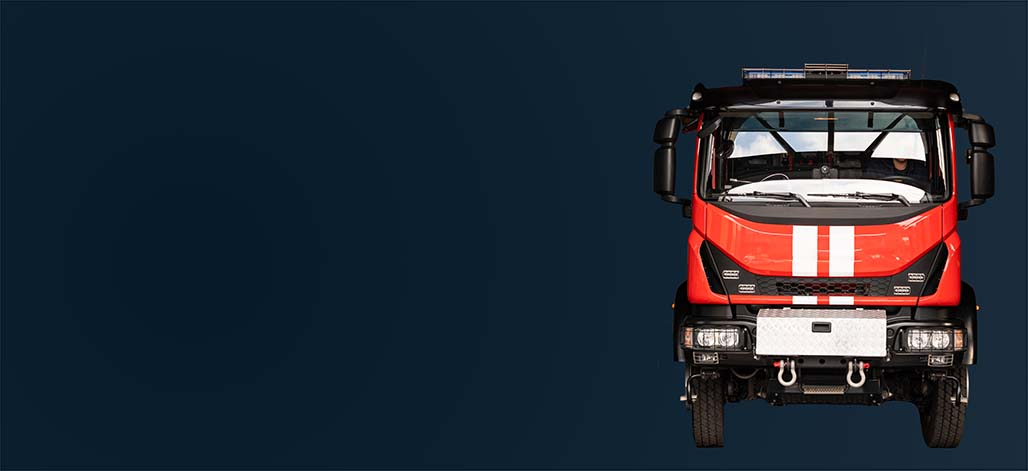
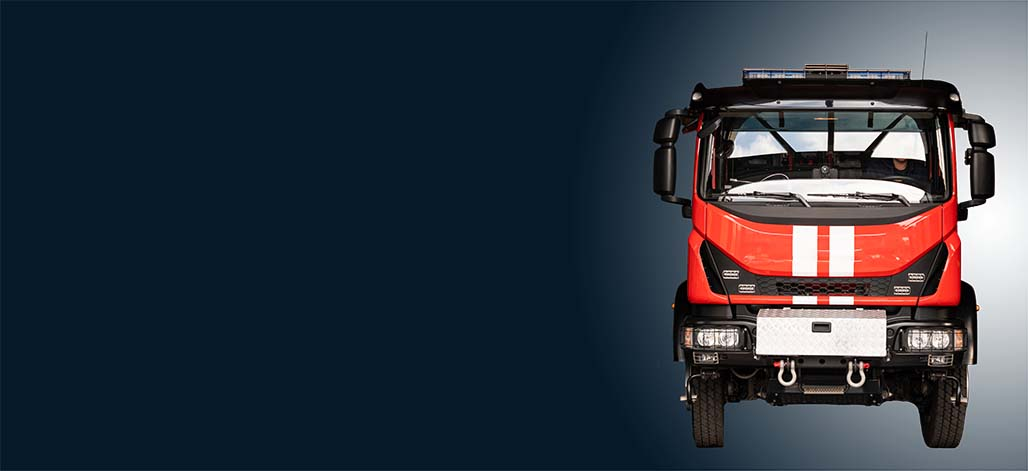
added: new pic for vehicle page

Changed region(s): [[0.6537, 0.0, 1.0, 1.0], [0.6226, 0.2675, 0.6848, 0.7134]]

diff --git a/frontend/artifact/src/components/mobile/basics/MobileContentCard.tsx b/frontend/artifact/src/components/mobile/basics/MobileContentCard.tsx
@@ -33,10 +33,12 @@ export default function MobileContentCard({
   // Determine the background image
   let backgroundImg;
   let optionX;
+  let optionFilter = "brightness(.4)"
   switch (img) {
     case "vehicle":
       backgroundImg = vehicle;
       optionX = "center"
+      optionFilter = ""
       break;
     case "serviceCenter":
       backgroundImg = serviceCenter;
@@ -67,7 +69,7 @@ export default function MobileContentCard({
     <section className="content-card-section" onClick={handeClick}>
       <div
         id="content-card-background-image"
-        style={{ backgroundImage: `url(${backgroundImg})`, backgroundPositionX: optionX }}
+        style={{ backgroundImage: `url(${backgroundImg})`, backgroundPositionX: optionX, filter: optionFilter }}
       ></div>
       <h1>{title}</h1>
       <h2>{subtitle}</h2>
